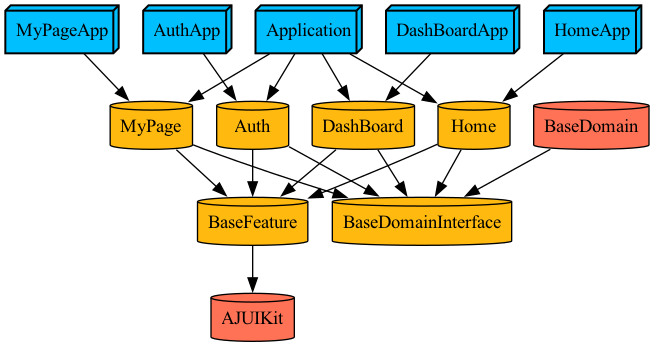
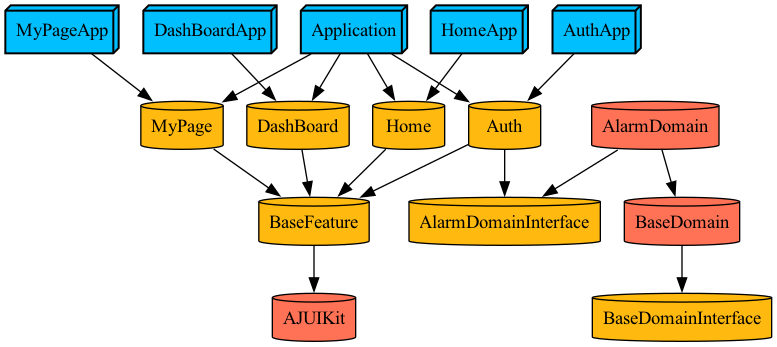
feat : Alarm Domain 프로젝트 생성

Changed region(s): [[0.0, 0.0, 1.0, 1.0], [0.7339, 0.7781, 1.0, 1.0], [0.7951, 0.2017, 0.8257, 0.2594]]

diff --git a/aljo/Projects/Domain/AlarmDomain/Tuist/ProjectDescriptionHelpers/Project+Templates.swift b/aljo/Projects/Domain/AlarmDomain/Tuist/ProjectDescriptionHelpers/Project+Templates.swift
@@ -1,0 +1,76 @@
+import ProjectDescription
+
+/// Project helpers are functions that simplify the way you define your project.
+/// Share code to create targets, settings, dependencies,
+/// Create your own conventions, e.g: a func that makes sure all shared targets are "static frameworks"
+/// See https://docs.tuist.io/guides/helpers/
+
+extension Project {
+    /// Helper function to create the Project for this ExampleApp
+    public static func app(name: String, platform: Platform, additionalTargets: [String]) -> Project {
+        var targets = makeAppTargets(name: name,
+                                     platform: platform,
+                                     dependencies: additionalTargets.map { TargetDependency.target(name: $0) })
+        targets += additionalTargets.flatMap({ makeFrameworkTargets(name: $0, platform: platform) })
+        return Project(name: name,
+                       organizationName: "tuist.io",
+                       targets: targets)
+    }
+
+    // MARK: - Private
+
+    /// Helper function to create a framework target and an associated unit test target
+    private static func makeFrameworkTargets(name: String, platform: Platform) -> [Target] {
+        let sources = Target(name: name,
+                platform: platform,
+                product: .framework,
+                bundleId: "io.tuist.\(name)",
+                infoPlist: .default,
+                sources: ["Targets/\(name)/Sources/**"],
+                resources: [],
+                dependencies: [])
+        let tests = Target(name: "\(name)Tests",
+                platform: platform,
+                product: .unitTests,
+                bundleId: "io.tuist.\(name)Tests",
+                infoPlist: .default,
+                sources: ["Targets/\(name)/Tests/**"],
+                resources: [],
+                dependencies: [.target(name: name)])
+        return [sources, tests]
+    }
+
+    /// Helper function to create the application target and the unit test target.
+    private static func makeAppTargets(name: String, platform: Platform, dependencies: [TargetDependency]) -> [Target] {
+        let platform: Platform = platform
+        let infoPlist: [String: InfoPlist.Value] = [
+            "CFBundleShortVersionString": "1.0",
+            "CFBundleVersion": "1",
+            "UIMainStoryboardFile": "",
+            "UILaunchStoryboardName": "LaunchScreen"
+            ]
+
+        let mainTarget = Target(
+            name: name,
+            platform: platform,
+            product: .app,
+            bundleId: "io.tuist.\(name)",
+            infoPlist: .extendingDefault(with: infoPlist),
+            sources: ["Targets/\(name)/Sources/**"],
+            resources: ["Targets/\(name)/Resources/**"],
+            dependencies: dependencies
+        )
+
+        let testTarget = Target(
+            name: "\(name)Tests",
+            platform: platform,
+            product: .unitTests,
+            bundleId: "io.tuist.\(name)Tests",
+            infoPlist: .default,
+            sources: ["Targets/\(name)/Tests/**"],
+            dependencies: [
+                .target(name: "\(name)")
+        ])
+        return [mainTarget, testTarget]
+    }
+}

diff --git a/aljo/Projects/Domain/AlarmDomain/Project.swift b/aljo/Projects/Domain/AlarmDomain/Project.swift
@@ -4,27 +4,24 @@ import MyPlugin
 
 let targets: [Target] = [
   Target(
-    name: "Auth",
+    name: "AlarmDomain",
     platform: .iOS,
-    product: .framework,
-    bundleId: "com.asap.feature.auth",
+    product: .staticFramework,
+    bundleId: "com.asap.alarmDomain",
     deploymentTarget: .iOS(targetVersion: "14.0", devices: .iphone),
     sources: ["Sources/**"],
     dependencies: [
-      .project(target: "BaseFeature", path: "../BaseFeature"),
-      .project(target: "AlarmDomainInterface", path: "../../Domain/AlarmDomain")
+      .project(target: "AlarmDomainInterface", path: ""),
+      .project(target: "BaseDomain", path: "../BaseDomain")
     ]
   ),
   Target(
-    name: "AuthApp",
+    name: "AlarmDomainInterface",
     platform: .iOS,
-    product: .app,
-    bundleId: "com.asap.feature.authapp",
+    product: .framework,
+    bundleId: "com.asap.alarmDomain",
     deploymentTarget: .iOS(targetVersion: "14.0", devices: .iphone),
-    sources: ["Sources/**"],
-    dependencies: [
-      .project(target: "Auth", path: "../Auth")
-    ]
+    sources: ["Interface/**"]
   )
 ]
 
@@ -32,4 +29,4 @@ let targets: [Target] = [
 let localHelper = LocalHelper(name: "MyPlugin")
 
 // Creates our project using a helper function defined in ProjectDescriptionHelpers
-let project = Project(name: "Auth", targets: targets)
+let project = Project(name: "AlarmDomain", targets: targets)

diff --git a/aljo/Projects/Features/DashBoard/Project.swift b/aljo/Projects/Features/DashBoard/Project.swift
@@ -11,8 +11,7 @@ let targets: [Target] = [
     deploymentTarget: .iOS(targetVersion: "14.0", devices: .iphone),
     sources: ["Sources/**"],
     dependencies: [
-      .project(target: "BaseFeature", path: "../BaseFeature"),
-      .project(target: "BaseDomainInterface", path: "../../Domain/BaseDomain")
+      .project(target: "BaseFeature", path: "../BaseFeature")
     ]
   ),
   Target(

diff --git a/aljo/Projects/Features/Home/Project.swift b/aljo/Projects/Features/Home/Project.swift
@@ -14,8 +14,7 @@ let targets: [Target] = [
     deploymentTarget: .iOS(targetVersion: "14.0", devices: .iphone),
     sources: ["Sources/**"],
     dependencies: [
-      .project(target: "BaseFeature", path: "../BaseFeature"),
-      .project(target: "BaseDomainInterface", path: "../../Domain/BaseDomain")
+      .project(target: "BaseFeature", path: "../BaseFeature")
     ]
   ),
   Target(

diff --git a/aljo/Projects/Features/MyPage/Project.swift b/aljo/Projects/Features/MyPage/Project.swift
@@ -13,8 +13,7 @@ let targets: [Target] = [
     deploymentTarget: .iOS(targetVersion: "14.0", devices: .iphone),
     sources: ["Sources/**"],
     dependencies: [
-      .project(target: "BaseFeature", path: "../BaseFeature"),
-      .project(target: "BaseDomainInterface", path: "../../Domain/BaseDomain")
+      .project(target: "BaseFeature", path: "../BaseFeature")
     ]
   ),
   Target(

diff --git a/aljo/Projects/Domain/AlarmDomain/Plugins/AlarmDomain/Package.swift b/aljo/Projects/Domain/AlarmDomain/Plugins/AlarmDomain/Package.swift
@@ -1,0 +1,15 @@
+// swift-tools-version: 5.4
+
+import PackageDescription
+
+let package = Package(
+    name: "MyPlugin",
+    products: [
+        .executable(name: "tuist-my-cli", targets: ["tuist-my-cli"]),
+    ],
+    targets: [
+        .executableTarget(
+            name: "tuist-my-cli"
+        ),
+    ]
+)

diff --git a/aljo/Projects/Features/Auth/Sources/AuthViewController.swift b/aljo/Projects/Features/Auth/Sources/AuthViewController.swift
@@ -1,5 +1,7 @@
 import UIKit
 
+import AlarmDomainInterface
+
 public final class AuthViewController: UIViewController {
     static func hello() {
         print("Hello Auth View Controller")

diff --git a/aljo/Projects/Domain/AlarmDomain/Tuist/Config.swift b/aljo/Projects/Domain/AlarmDomain/Tuist/Config.swift
@@ -1,0 +1,7 @@
+import ProjectDescription
+
+let config = Config(
+    plugins: [
+        .local(path: .relativeToManifest("../../Plugins/AlarmDomain")),
+    ]
+)

diff --git a/aljo/Projects/Domain/AlarmDomain/Plugins/AlarmDomain/ProjectDescriptionHelpers/LocalHelper.swift b/aljo/Projects/Domain/AlarmDomain/Plugins/AlarmDomain/ProjectDescriptionHelpers/LocalHelper.swift
@@ -1,0 +1,9 @@
+import Foundation
+
+public struct LocalHelper {
+    let name: String
+
+    public init(name: String) {
+        self.name = name
+    }
+}

diff --git a/aljo/Projects/Domain/AlarmDomain/Plugins/AlarmDomain/Plugin.swift b/aljo/Projects/Domain/AlarmDomain/Plugins/AlarmDomain/Plugin.swift
@@ -1,0 +1,3 @@
+import ProjectDescription
+
+let plugin = Plugin(name: "MyPlugin")

diff --git a/aljo/Projects/Domain/AlarmDomain/Plugins/AlarmDomain/Sources/tuist-my-cli/main.swift b/aljo/Projects/Domain/AlarmDomain/Plugins/AlarmDomain/Sources/tuist-my-cli/main.swift
@@ -1,0 +1,1 @@
+print("Hello, from your Tuist Task")
